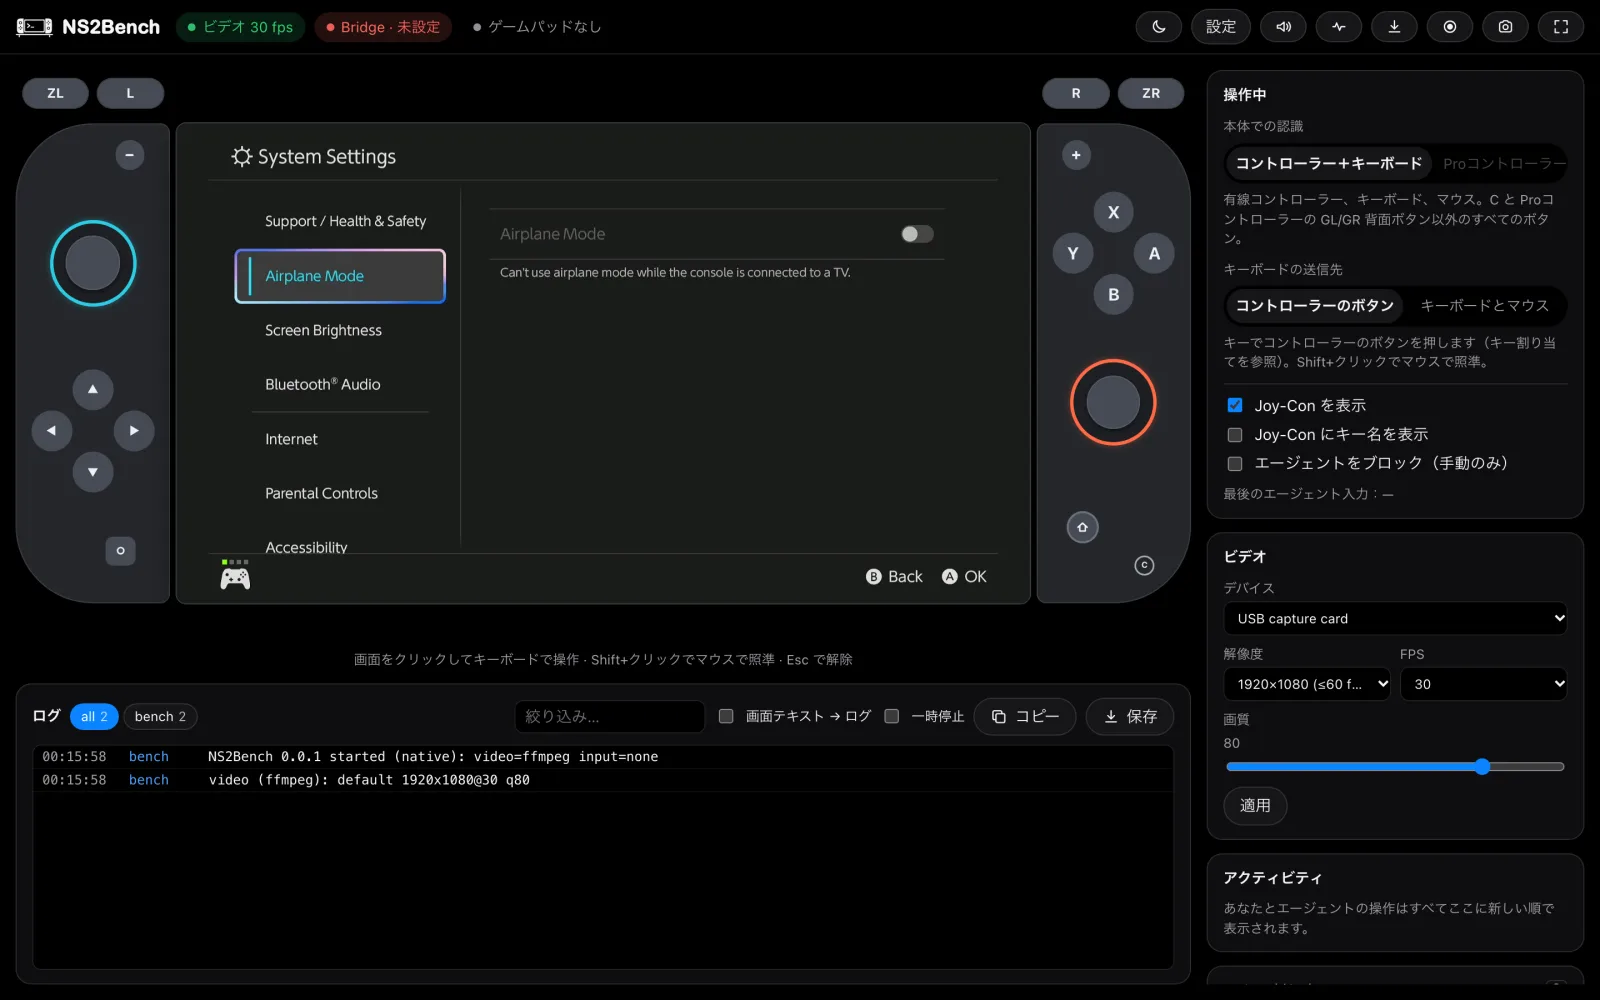
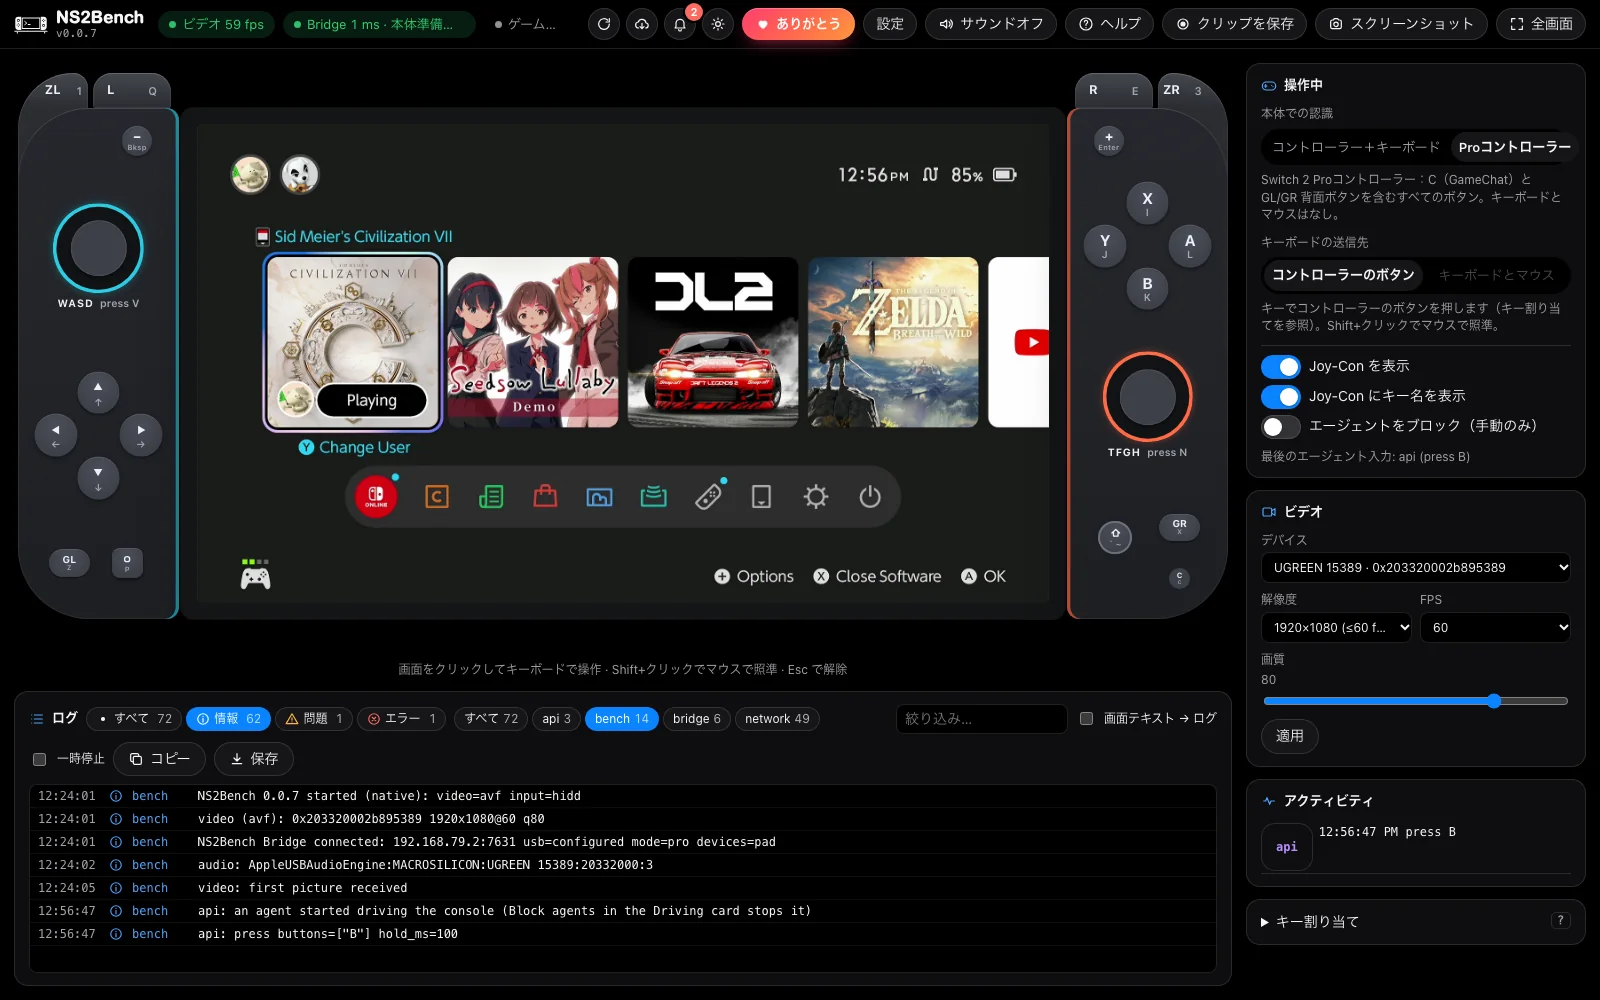
New screenshots for the README and website (live console, current look); main image shows the HOME menu
Claude-Session: https://claude.ai/code/session_01GtiJiK15kevvkhFpgVj7zx

diff --git a/site/index.html b/site/index.html
@@ -98,8 +98,8 @@
         <p class="fine" data-i18n="hero.fine">For macOS, Windows and Linux. You need a USB HDMI capture card; an input device is optional. No jailbreak needed: works with any Switch 2, stock or jailbroken.</p>
       </div>
       <figure class="shot">
-        <img class="only-light" src="assets/shots/main-light.webp" data-i18n-attr="alt:alt.main" alt="NS2Bench showing the console's System Settings with on-screen Joy-Con, the Driving and Video panels and logs" width="1600" height="1000">
-        <img class="only-dark" src="assets/shots/main-dark.webp" data-i18n-attr="alt:alt.main" alt="NS2Bench showing the console's System Settings with on-screen Joy-Con, the Driving and Video panels and logs" width="1600" height="1000">
+        <img class="only-light" src="assets/shots/main-light.webp" data-i18n-attr="alt:alt.main" alt="NS2Bench showing the console's HOME menu with on-screen Joy-Con, the Driving and Video panels and logs" width="1600" height="1000">
+        <img class="only-dark" src="assets/shots/main-dark.webp" data-i18n-attr="alt:alt.main" alt="NS2Bench showing the console's HOME menu with on-screen Joy-Con, the Driving and Video panels and logs" width="1600" height="1000">
       </figure>
     </div>
     <ul class="wrap badges" data-i18n-attr="aria-label:badges.label" aria-label="At a glance">

diff --git a/README.md b/README.md
@@ -56,7 +56,7 @@ Good for:
 
 ## A quick look
 
-<img width="1080" alt="NS2Bench with the console's System Settings on screen, dark theme" src="site/assets/shots/main-dark.webp" />
+<img width="1080" alt="NS2Bench with the console's HOME menu on screen, dark theme" src="site/assets/shots/main-dark.webp" />
 
 <img width="1080" alt="NS2Bench in light theme" src="site/assets/shots/main-light.webp" />
 
